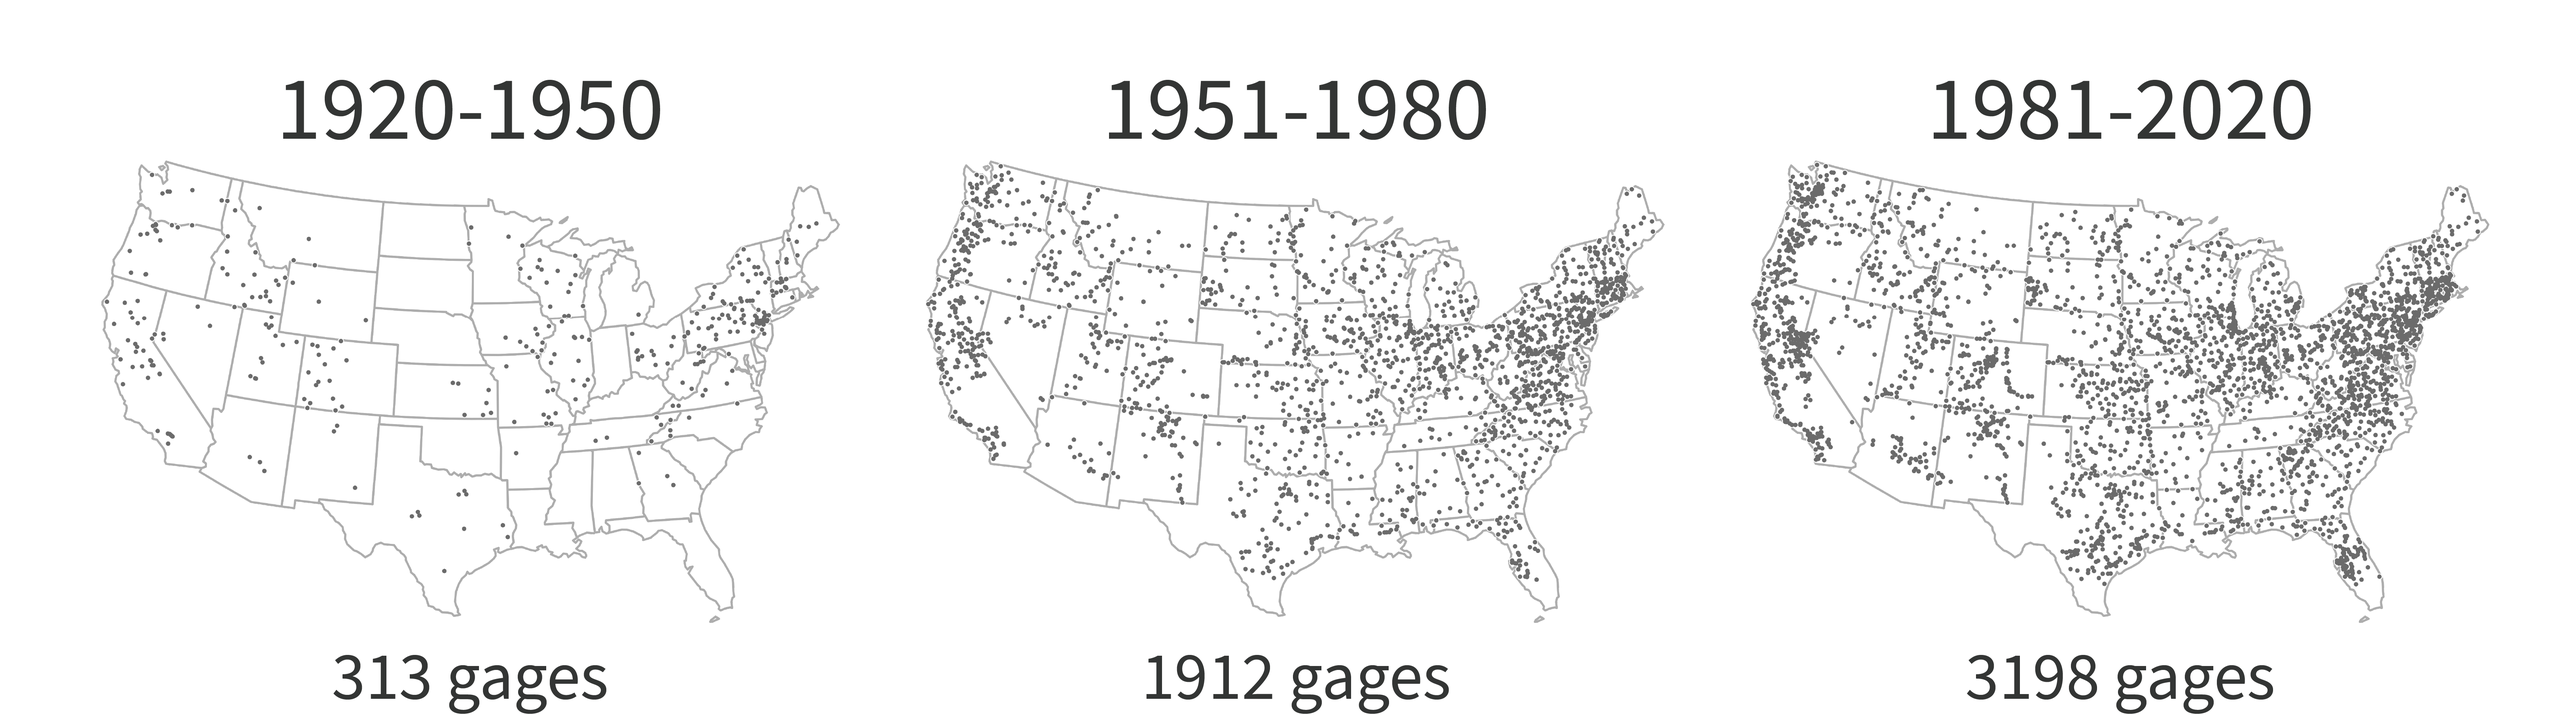
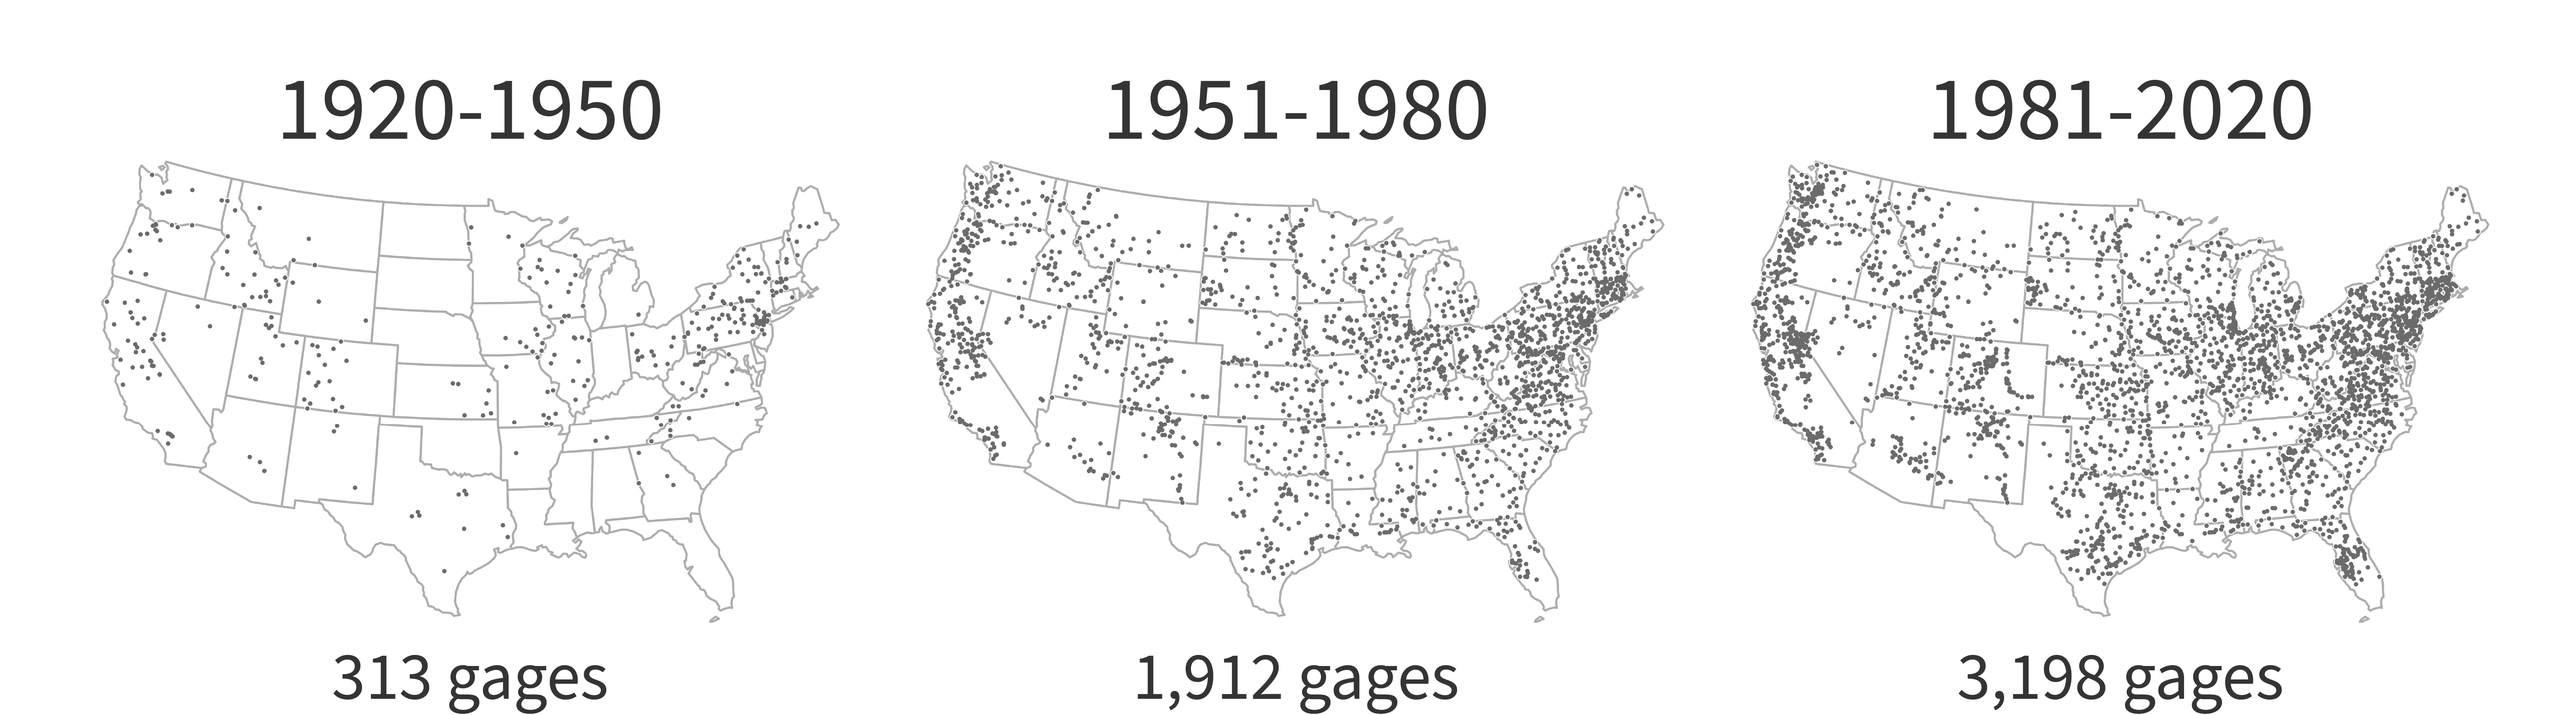
patches wrt MC's internal review

diff --git a/src/assets/text/droughtNarrations_desktop.js b/src/assets/text/droughtNarrations_desktop.js
@@ -5,9 +5,10 @@ export default {
         title: 'How to read this timeline',
         start_date: '1920-04-01', // Date marking start of annotation. Determines y trigger start position on deskop and order
         end_date: '1928-12-31', // Date marking end of annotation. Determines y trigger end position on deskop
-        text: 'This timeline shows the 2,000 most severe streamflow drought events at USGS streamgages over 100 years (<a href="https://labs.waterdata.usgs.gov/visualizations/what-is-drought/index.html#/" target="_blank">What is Streamflow Drought?</a>). Each bar shows the duration of drought at a single gage so that the taller and darker the bar, the longer the drought event. When multiple streamgages experienced drought conditions simultaneously, the chart is wider.', // Narrative text
+        text: 'This timeline shows the 2,000 most severe streamflow drought events at USGS streamgages over 100 years (<a href="https://labs.waterdata.usgs.gov/visualizations/what-is-drought/index.html#/" target="_blank">What is Streamflow Drought?</a>). Each bar shows the duration of drought at a single gage so that the taller and darker the bar, the longer the drought event. The map above shows streamgages that had one of the 2,000 most severe droughts, with gages in drought highlighted in red for each major drought period.', // Narrative text
         quote: '',
         quote_source: '',
+        img_source: 'states_stations_inset.png',
         //quote: 'There is no assurance that the next drought is not just beyond the horizon. We can be assured, however, that drought will return, and, considering the greater needs of that future time, its impact, unless prepared for, will be much greater.',
         //quote_source: '<a href="https://cawaterlibrary.net/wp-content/uploads/2017/05/Drought-1976-77.pdf" target="_blank">Ronald B. Robie, CA Department of Water Resources, 1978</a>'
       },
@@ -16,9 +17,10 @@ export default {
         title: 'Dust Bowl (1930 - 1941)',
         start_date: '1930-01-01', // Date marking start of annotation. Determines y trigger start position on deskop and order
         end_date: '1937-08-31', // Date marking end of annotation. Determines y trigger end position on deskop
-        text: 'Drought hit most of the U.S. in the 1930s, but the farmers and ranchers of the Great Plains were hit hardest. Not enough rain combined with too much farming and grazing made the top layer of soil loose and dry. Heavy winds blew the dry soil into massive dust storms, which is why we call this period in history the “dust bowl.” </a>', // Narrative text
+        text: 'Drought hit much of the U.S. in the 1930s, bringing great hardship to the farmers and ranchers of the Great Plains. Not enough rain combined with too much farming and grazing made the top layer of soil loose and dry. Heavy winds blew the dry soil into massive dust storms, which is why we call this period in history the “dust bowl.” </a>', // Narrative text
         quote: 'Dust to eat, and dust to breathe and dust to drink. Dust in the beds and in the flour bin, on dishes and walls and windows, in hair and eyes and ears and teeth and throats, to say nothing of the heaped up accumulation on floors and window sills after one of the bad days.',
-        quote_source: '<a href="https://americanexperience.si.edu/historical-eras/the-great-depression-wwii/pair-dust-bowl-valley-farms/" target="_blank">Letter from Caroline Henderson to Secretary of Agriculture Henry A. Wallace, 1935</a>'
+        quote_source: '<a href="https://americanexperience.si.edu/historical-eras/the-great-depression-wwii/pair-dust-bowl-valley-farms/" target="_blank">Letter from Caroline Henderson to Secretary of Agriculture Henry A. Wallace, 1935</a>',
+        img_source: 'drought_period_stations_1930.png',
       },
       {
         id: '1930b', // Unique id for annotation - order and # value don't matter - annotations are later sorted by start_date
@@ -27,7 +29,8 @@ export default {
         end_date: '1943-08-31', // Date marking end of annotation. Determines y trigger end position on deskop
         text: 'The drought ended in 1941, but the lessons learned from the dust bowl continue to shape the farming and grazing practices we use today. </a>', // Narrative text
         quote: 'Dust to eat, and dust to breathe and dust to drink. Dust in the beds and in the flour bin, on dishes and walls and windows, in hair and eyes and ears and teeth and throats, to say nothing of the heaped up accumulation on floors and window sills after one of the bad days.',
-        quote_source: '<a href="https://americanexperience.si.edu/historical-eras/the-great-depression-wwii/pair-dust-bowl-valley-farms/" target="_blank">Letter from Caroline Henderson to Secretary of Agriculture Henry A. Wallace, 1935</a>'
+        quote_source: '<a href="https://americanexperience.si.edu/historical-eras/the-great-depression-wwii/pair-dust-bowl-valley-farms/" target="_blank">Letter from Caroline Henderson to Secretary of Agriculture Henry A. Wallace, 1935</a>',
+        img_source: 'drought_period_stations_1930.png',
       },
       {
         id: '1952a',
@@ -37,15 +40,17 @@ export default {
         text: 'The drought of the 1950s was the biggest in terms of area of land affected. About 80% of hydrologic units (areas of connected streams) received less than half the normal amount of precipitation (<a href="https://doi.org/10.1002/joc.7904" target="_blank">McCabe et al. 2022</a>). ',
         quote: 'It started out west. It tended to get dry out there and not rain, and that lack of rainfall just moved east. My dad kept saying, ‘We have these things; they’ll just go about eighteen months. It’ll break.’ But that’s what caught everybody off guard: it didn’t break. It just kept on going, and it lasted about seven years.',
         quote_source: '<a href="https://www.texasmonthly.com/articles/when-the-sky-ran-dry/" target="_blank">Mort Mertz, West Texas rancher since 1954</a>',
+        img_source: 'drought_period_stations_1952.png',
       },
       {
         id: '1952b',
         title: '1950s Drought (1952 - 1957)',
         start_date: '1955-12-31',
         end_date: '1959-08-31',
-        text: 'The lessons learned from the dust bowl helped people prepare for and respond to the drought, but farmers and ranchers still experienced great hardship, especially in already dry areas like Texas. Texas developed its modern approach to water planning because of how badly the 1950s drought hurt its rural communities.',
+        text: 'The lessons learned from the dust bowl helped people prepare for and respond to the 1950s drought, but farmers and ranchers still experienced great hardship, especially in already dry areas like Texas. Texas developed its modern approach to water planning because of how badly the 1950s drought hurt its rural communities.',
         quote: 'It started out west. It tended to get dry out there and not rain, and that lack of rainfall just moved east. My dad kept saying, ‘We have these things; they’ll just go about eighteen months. It’ll break.’ But that’s what caught everybody off guard: it didn’t break. It just kept on going, and it lasted about seven years.',
         quote_source: '<a href="https://www.texasmonthly.com/articles/when-the-sky-ran-dry/" target="_blank">Mort Mertz, West Texas rancher since 1954</a>',
+        img_source: 'drought_period_stations_1952.png',
       },
       {
         id: '1962a',
@@ -55,6 +60,7 @@ export default {
         text: 'The 1960s drought was the most severe drought to hit the northeastern U.S. in the last 100 years. The northeastern states did not have experience with droughts, so their emergency reserves of water were not large enough to cover a long dry period. ',
         quote: 'The unusually long and severe water shortages in the Northeast during the 1960s emphasized the fact that drought is a national problem, and is not limited to any single geographic region or climate.',
         quote_source: '<a href="https://www.usgs.gov/publications/northeast-water-supply-crisis-1960s" target="_blank">Henry C. Barksdale, 1968</a>',
+        img_source: 'drought_period_stations_1962.png',
       },
       {
         id: '1962b',
@@ -64,6 +70,7 @@ export default {
         text: 'As the Northeast drained its water reserves, the concentration of hazardous pollutants in the water went up, making the remaining water less safe to use. The northeastern states and federal agencies worked together to develop new water conservation and management policies, which provided some relief until the rains returned.',
         quote: 'The unusually long and severe water shortages in the Northeast during the 1960s emphasized the fact that drought is a national problem, and is not limited to any single geographic region or climate.',
         quote_source: '<a href="https://www.usgs.gov/publications/northeast-water-supply-crisis-1960s" target="_blank">Henry C. Barksdale, 1968</a>',
+        img_source: 'drought_period_stations_1962.png',
       },
       {
         id: '1976',
@@ -73,6 +80,7 @@ export default {
         text: 'The 1976-1977 drought was short, so it is not considered one of the five major drought events in the last 100 years. But this two-year drought caused agricultural losses and hydropower shortages across much of the western U.S.',
         quote: 'There is no assurance that the next drought is not just beyond the horizon. We can be assured, however, that drought will return, and, considering the greater needs of that future time, its impact, unless prepared for, will be much greater.',
         quote_source: '<a href="https://cawaterlibrary.net/wp-content/uploads/2017/05/Drought-1976-77.pdf" target="_blank">Ronald B. Robie, CA Department of Water Resources, 1978</a>',
+        img_source: 'drought_period_stations_1976.png',
       },
       {
         id: '1987a',
@@ -82,6 +90,7 @@ export default {
         text: 'This drought affected areas from northern Minnesota to southern California. A study in 1989 called for better climate data and predictions to help people prepare for and respond to drought (<a href="https://doi.org/10.1175/1520-0477(1989)070%3C1092:TDBAD%3E2.0.CO;2" target="_blank">Changnon 1989</a>). To this day, USGS scientists are working hard to address that need (<a href="https://www.usgs.gov/mission-areas/water-resources/science/drought-prediction-science" target="_blank">Drought Prediction Science Website</a>).',
         quote: 'The 1988 drought dramatically illustrates how quickly several years of excess precipitation can change to widespread drought.',
         quote_source: '<a href="https://files.dnr.state.mn.us/natural_resources/climate/summaries_and_publications/drought1988.pdf" target="_blank">Minnesota Department of Natural Resources, Division of Waters, 1989</a>',
+        img_source: 'drought_period_stations_1987.png',
       },
       {
         id: '1987b',
@@ -91,15 +100,17 @@ export default {
         text: 'In the summer of 1988, streamflow in the Mississippi River was so low that barges could not go up and down the lower section of the river. That same summer, wildfires burned 36% of Yellowstone National Park, triggering the largest fire-fighting effort in the U.S. at that time. ',
         quote: 'The 1988 drought dramatically illustrates how quickly several years of excess precipitation can change to widespread drought.',
         quote_source: '<a href="https://files.dnr.state.mn.us/natural_resources/climate/summaries_and_publications/drought1988.pdf" target="_blank">Minnesota Department of Natural Resources, Division of Waters, 1989</a>',
+        img_source: 'drought_period_stations_1987.png',
       },
       {
         id: '1999a',
         title: 'Turn-of-the-Century (1999 - 2015)',
         start_date: '1999-09-01',
         end_date: '2009-09-01',
-        text: 'This was one of the worst droughts to hit the southwestern U.S. in the last 1200 years. Like previous droughts, low amounts of rain led to big drops in available water, but high temperatures drove the loss of soil moisture during this most recent drought (<a href="https://doi.org/10.1002/joc.7904" target="_blank">McCabe et al. 2022</a>). ',
+        text: 'This was one of the worst droughts to hit the southwestern U.S. in the last 1,200 years. Like previous droughts, low amounts of rain led to big drops in available water, but high temperatures drove the loss of soil moisture during this most recent drought (<a href="https://doi.org/10.1002/joc.7904" target="_blank">McCabe et al. 2022</a>). ',
         quote: '2000-2021 ranks as the driest 22-year period since at least 800 CE.',
         quote_source: '<a href="https://www.nature.com/articles/s41558-022-01290-z" target="_blank">A. Park Williams, Benjamin I. Cook, and Jason E. Smerdon, 2022</a>',
+        img_source: 'drought_period_stations_1999.png',
       },
       {
         id: '1999b',
@@ -109,6 +120,7 @@ export default {
         text: 'The national-level drought event ended in 2015, but the turn-of-the-century drought in the southwestern U.S. has continued. The USGS is working with partners to understand this ongoing drought and to predict and communicate drought risk (<a href="https://www.usgs.gov/media/videos/image-week-lake-powell-and-megadrought" target="_blank">Video of drought at Lake Powell</a>).',
         quote: '2000-2021 ranks as the driest 22-year period since at least 800 CE.',
         quote_source: '<a href="https://www.nature.com/articles/s41558-022-01290-z" target="_blank">A. Park Williams, Benjamin I. Cook, and Jason E. Smerdon, 2022</a>',
+        img_source: 'drought_period_stations_1999.png',
       }      
     ]
 };

diff --git a/src/components/DroughtHistory.vue b/src/components/DroughtHistory.vue
@@ -9,7 +9,7 @@
           The U.S. has experienced thousands of droughts that can cause water-related problems for humans and ecosystems. But in the last 100 years, five major drought events stand out in their effects on agriculture, wildfires, and streamflow (<a
             href="https://doi.org/10.1002/joc.7904"
             target="_blank"
-          >McCabe et al. 2022</a>). Scroll through the timeline to see when and where these major drought events occurred across the lower 48 states.
+          >McCabe et al. 2022</a>). Scroll through the timeline to see when and where these major drought events occurred at USGS streamgages (<a href="https://dashboard.waterdata.usgs.gov/" target="_blank">USGS Streamgage Network</a>) across the lower 48 states.
         </p>
       </div>
       <nav id="nav-button-container">
@@ -105,12 +105,12 @@
             alt="Map of drought sites in the continental United States"
           >
           <img
-            v-for="drought in scrollToDates"
-            :id="`inset-map-${drought.id}`"
-            :key="drought.id"
+            v-for="narration in narrations"
+            :id="`inset-map-${narration.id}`"
+            :key="narration.id"
             class="inset-map drought-specific hide"
-            :src="require(`@/assets/images/drought_period_stations_${drought.id}.png`)"
-            :alt="`Map of drought sites in the continental United States. Sites actively in drought during the ${drought.name} are highlighted in red`"
+            :src="require(`@/assets/images/${narration.img_source}`)"
+            :alt="`Map of drought sites in the continental United States. Sites actively in drought during the ${narration.title} are highlighted in red`"
           >
         </div>
         </div>
@@ -221,7 +221,7 @@
         <a href="https://labs.waterdata.usgs.gov/visualizations/what-is-drought/index.html#/"
            target="_blank"
           >What is Streamflow Drought?</a>
-          ). The red line in this image represents a variable threshold, which means that normal streamflow levels change through the year. For our timeline visualization, we identified streamflow droughts in the lower 48 states that were below the 20% variable 7-day threshold – in other words, these drought events were all considered "moderate droughts” (<a
+          ). The red line in this image represents a variable threshold, which means that normal streamflow levels change through the year. For our timeline visualization, we identified streamflow droughts in the lower 48 states that were below the 20% variable 7-day threshold – in other words, these drought events were all moderate, severe, extreme, or exceptional (<a
             href="https://droughtmonitor.unl.edu/"
             target="_blank"
           >U.S. Drought Monitor Map</a>). We excluded states and regions outside of the conterminous U.S. because of a lack of data.
@@ -709,17 +709,6 @@ export default {
                 toggleActions: "restart reverse none reverse" 
               },
             })
-            // Show the map for each drought when in that drought period
-            tl.to(`#${scrollIDFull}`, {
-              scrollTrigger: {
-                markers: false,
-                trigger: `#${scrollIDFull}`,
-                start: "top 67%",
-                end: 'bottom 67%',
-                toggleClass: {targets: `#inset-map-${scrollID}`, className: "show"}, // adds class to target when triggered
-                toggleActions: "restart reverse none reverse" 
-              },
-            })
           })
 
 
@@ -770,14 +759,14 @@ export default {
                 toggleActions: "restart reverse none reverse" 
               },
             })
-            // Show the image for each drought when in that drought period
+            // Show the map for each drought when in that drought period
             tl.to(`#${rectIDFull}`, {
               scrollTrigger: {
                 markers: false,
                 trigger: `#${rectIDFull}`,
                 start: "top 67%",
-                end: 'bottom 67%',
-                toggleClass: {targets: `#drought-image-${rectlID}`, className: "show"}, // adds class to target when triggered
+                end: "bottom 67%",
+                toggleClass: {targets: `#inset-map-${rectlID}`, className: "show"}, // adds class to target when triggered
                 toggleActions: "restart reverse none reverse" 
               },
             })

diff --git a/src/assets/text/droughtAnnotations_desktop.js b/src/assets/text/droughtAnnotations_desktop.js
@@ -8,27 +8,19 @@ export default {
         desktop_text_anchor: 'start',
         desktop_text_width: 250
       },
-       {
-        id: 'map',
-        date: '1921-06-01',
-        text: 'Map of streamgages that had one of the 2000 most severe droughts.',
-        desktop_x_offset_per: 60,
-        desktop_text_anchor: 'start',
-        desktop_text_width: 250
-      }    ,
-      {
-       id: 'redmap',
-       date: '1929-03-01',
-       text: 'Streamgage locations in each major drought period are highlighted on the map in red.',
-       desktop_x_offset_per: 60,
-       desktop_text_anchor: 'start',
-       desktop_text_width: 250
-     }    ,
       {
         id: 'yaxis',
         date: '1921-08-01',
         text: 'Time',
         desktop_x_offset_per: 22,
+        desktop_text_anchor: 'start',
+        desktop_text_width: 250
+      },
+      {
+        id: '1920s-gages',
+        date: '1927-01-01',
+        text: 'From 1920 to 1951, the data comprises 313 streamgages (see Methods).',
+        desktop_x_offset_per: 63,
         desktop_text_anchor: 'start',
         desktop_text_width: 250
       },
@@ -45,6 +37,14 @@ export default {
         date: '1932-09-01',
         text: 'Usually known for its flooding, the worst drought during this period was on the Red River of the North in Fargo, ND, which lasted over 1,000 days.',
         desktop_x_offset_per: 60,
+        desktop_text_anchor: 'start',
+        desktop_text_width: 250
+      },
+      {
+        id: '1950s-gages',
+        date: '1950-01-01',
+        text: 'From 1950 to 1980, the data comprises 1,912 streamgages (see Methods).',
+        desktop_x_offset_per: 63,
         desktop_text_anchor: 'start',
         desktop_text_width: 250
       },
@@ -74,6 +74,14 @@ export default {
       },
       
       {
+        id: '1980s-gages',
+        date: '1980-01-01',
+        text: 'From 1981 to 2020, the data comprises 3,198 streamgages (see Methods).',
+        desktop_x_offset_per: 63,
+        desktop_text_anchor: 'start',
+        desktop_text_width: 250
+      },
+      {
         id: '1980s-fact',
         date: '1987-07-01',
         text: 'This drought on the Carmel River near Seaside, CA lasted almost 4 years!',
@@ -84,7 +92,7 @@ export default {
       {
         id: '2000s-fact1',
         date: '2000-06-01',
-        text: 'Over 31% of the 2000 most severe droughts happened during this period',
+        text: 'Over 31% of the 2,000 most severe droughts happened during this period',
         desktop_x_offset_per: 62,
         desktop_text_anchor: 'start',
         desktop_text_width: 250
@@ -100,7 +108,7 @@ export default {
       {
         id: '2000s',
         date: '2009-01-01',
-        text: 'The longest drought of all was near Tampa, Florida, and lasted over 6 years!',
+        text: 'The longest drought of all was near Tampa, FL, and lasted over 6 years!',
         desktop_x_offset_per: 62,
         desktop_text_anchor: 'start',
         desktop_text_width: 250

diff --git a/src/assets/text/droughtAnnotations_mobile.js b/src/assets/text/droughtAnnotations_mobile.js
@@ -50,7 +50,7 @@ export default {
       {
         id: 'dustbowl_1',
         date: '1930-03-01',
-        text: 'Dust Bowl: Drought hit most of the U.S. in the 1930s, but the farmers and ranchers of the Great Plains were hit hardest. Not enough rain combined with too much farming and grazing made the top layer of soil loose and dry. Heavy winds blew the dry soil into massive dust storms, which is why we call this period in history the “dust bowl.”',
+        text: 'Dust Bowl: Drought hit much of the U.S. in the 1930s, bringing great hardship to the farmers and ranchers of the Great Plains. Not enough rain combined with too much farming and grazing made the top layer of soil loose and dry. Heavy winds blew the dry soil into massive dust storms, which is why we call this period in history the “dust bowl.”',
         mobile_x_offset_per: 24
       },
       {
